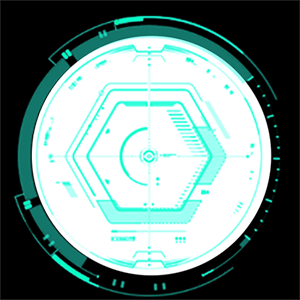
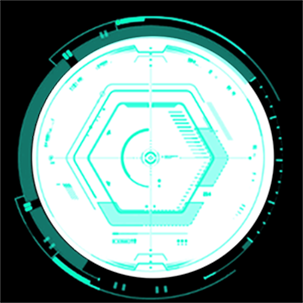
css js update

diff --git a/css/activity_calendar.css b/css/activity_calendar.css
@@ -578,7 +578,7 @@ body{
     font-family: ;
     display: inline-block;
     margin: 3px 0 5px 10px;
-    cursor: pointer;
+    /*cursor: pointer;*/
     transition: 0.5s;
     background-color: orange;
     padding: 5px;
@@ -750,8 +750,8 @@ img { border: 0; }
 }
 
 #rotatescroll {
-	height: 300px; 
-	width: 300px;
+	height: 299px; 
+	width: 299px;
 	position: relative;
 	display: inline-block;
 }

diff --git a/input_cart_detail.php b/input_cart_detail.php
@@ -130,19 +130,19 @@ body::-webkit-scrollbar-thumb {
 			<div id="credit_input_area" colspan="2">信用卡卡號
 		<div>
 			<div class="credit_card" name="credit_card" id="credit_card">
-				<input type="text" size="4" minlength="4" maxlength="4" id="credit_card1" name="credit_card1" onkeyup="this.value=this.value.replace(/[^0-9]/g,'')" required>-
-				<input type="text" size="4" minlength="4" maxlength="4" id="credit_card2" name="credit_card2" onkeyup="this.value=this.value.replace(/[^0-9]/g,'')" required>-
-				<input type="text" size="4" minlength="4" maxlength="4" id="credit_card3" name="credit_card3" onkeyup="this.value=this.value.replace(/[^0-9]/g,'')" required>-
-				<input type="text" size="4" minlength="4" maxlength="4" id="credit_card4" name="credit_card4" onkeyup="this.value=this.value.replace(/[^0-9]/g,'')" required>
+				<input type="text" class="credits" minlength="4" maxlength="4" id="credit_card1" name="credit_card1" onkeyup="this.value=this.value.replace(/[^0-9]/g,'')" required>-
+				<input type="text" class="credits" minlength="4" maxlength="4" id="credit_card2" name="credit_card2" onkeyup="this.value=this.value.replace(/[^0-9]/g,'')" required>-
+				<input type="text" class="credits" minlength="4" maxlength="4" id="credit_card3" name="credit_card3" onkeyup="this.value=this.value.replace(/[^0-9]/g,'')" required>-
+				<input type="text" class="credits" minlength="4" maxlength="4" id="credit_card4" name="credit_card4" onkeyup="this.value=this.value.replace(/[^0-9]/g,'')" required>
 			</div>
 		<div>
 			<div>到期年月 / 驗證碼</div>
 		</div>
 		<div>
 			<div>
-				<input type="text" maxlength="2" id="credit_card5" onkeyup="this.value=this.value.replace(/[^0-9]/g,'')" required>/
-				<input type="text" maxlength="2" id="credit_card6" onkeyup="this.value=this.value.replace(/[^0-9]/g,'')" required>
-				<input type="text" maxlength="3" id="credit_card7" onkeyup="this.value=this.value.replace(/[^0-9]/g,'')" required></div>
+				<input type="text" maxlength="2" class="credits" id="credit_card5" onkeyup="this.value=this.value.replace(/[^0-9]/g,'')" required>/
+				<input type="text" maxlength="2" class="credits" id="credit_card6" onkeyup="this.value=this.value.replace(/[^0-9]/g,'')" required>
+				<input type="text" maxlength="3" class="credits" id="credit_card7" onkeyup="this.value=this.value.replace(/[^0-9]/g,'')" required></div>
 			</div>
 		</div>
 		</div>
@@ -222,15 +222,14 @@ document.getElementById("credit_card4").addEventListener("change",checkLength);
 document.getElementById("credit_card5").addEventListener("change",checkMonth);
 document.getElementById("credit_card6").addEventListener("change",checkYear);
 document.getElementById("credit_card7").addEventListener("change",checkVerify);
+
 function checkLength(){
-	var num = $(this).val();
+	var num = $(this).val().toString();
 	var id  = $(this).attr("id").substr(-1);
-	if(num < 1000){
+	if(num.length < 4){
 		alert("數字長度不對！請重新輸入");
+		alert(num.length);
 		$(this).val("");
-		$("#nextStep").click(function(){
-			alert("請確認信用卡為十六碼。");
-		})
 	}
 }
 function checkMonth(){
@@ -260,14 +259,18 @@ function checkYear(){
 function checkVerify(){
 	var num = $(this).val();
 	var id  = $(this).attr("id").substr(-1);
-	if(num < 100){
+	if(num.length < 3){
 		alert("驗證碼長度不對！請重新輸入");
 		$(this).val("");
-		$("#nextStep").click(function(){
-			alert("請確認驗證碼格式。");
-		})
 	}
 }
+
+$(".credits").keyup(function () {
+            if (this.value.length == this.maxLength) {
+              $(this).next('.credits').focus();
+            }
+        });
+
 
 function bindToHiddenName(){
 	document.getElementById("cart_sub_total_hidden").value = document.getElementById("cart_sub_total").innerHTML;

diff --git a/facility_order_save_database.php b/facility_order_save_database.php
@@ -45,7 +45,6 @@ body{
   padding: 15px;
   transform: translate(-50%,-50%);
   text-align: center;
-
 }
 
 #lightBox .msg{
@@ -53,6 +52,7 @@ body{
 	height: 85%;
 	color: azure;
 	line-height: 24px;
+  font-family: 微軟正黑體;
 }
 #lightBox a{
   /*margin: 0 30px;*/
